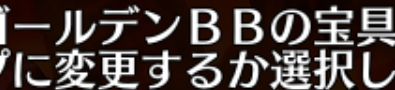
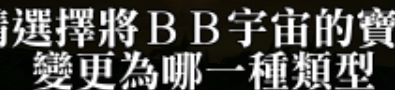
FGOTW V3.80 new servant skill support

diff --git a/scripts/com.cooper.FGOTW/game_script/check_stage.js b/scripts/com.cooper.FGOTW/game_script/check_stage.js
@@ -444,9 +444,6 @@ function isBattleSkillEmiyaDialog(screenshot) {
 }
 
 function isBattleSkillDubaiDialog(screenshot) {
-  if (server == "TW") {
-    return false;
-  }
   return checkIconListInScreen(
     ["dubaiSkill", "dubaiSkill2", "dubaiSkill3"],
     false,

diff --git a/scripts/com.cooper.FGOTW/index.js b/scripts/com.cooper.FGOTW/index.js
@@ -5,7 +5,7 @@ var itemPath;
 var server;
 var loadApiCnt;
 
-var version = "V3.79";
+var version = "V3.80";
 
 function start(loopTime, script, scriptName, be, pref) {
   startScript(loopTime, script, scriptName, be, pref);